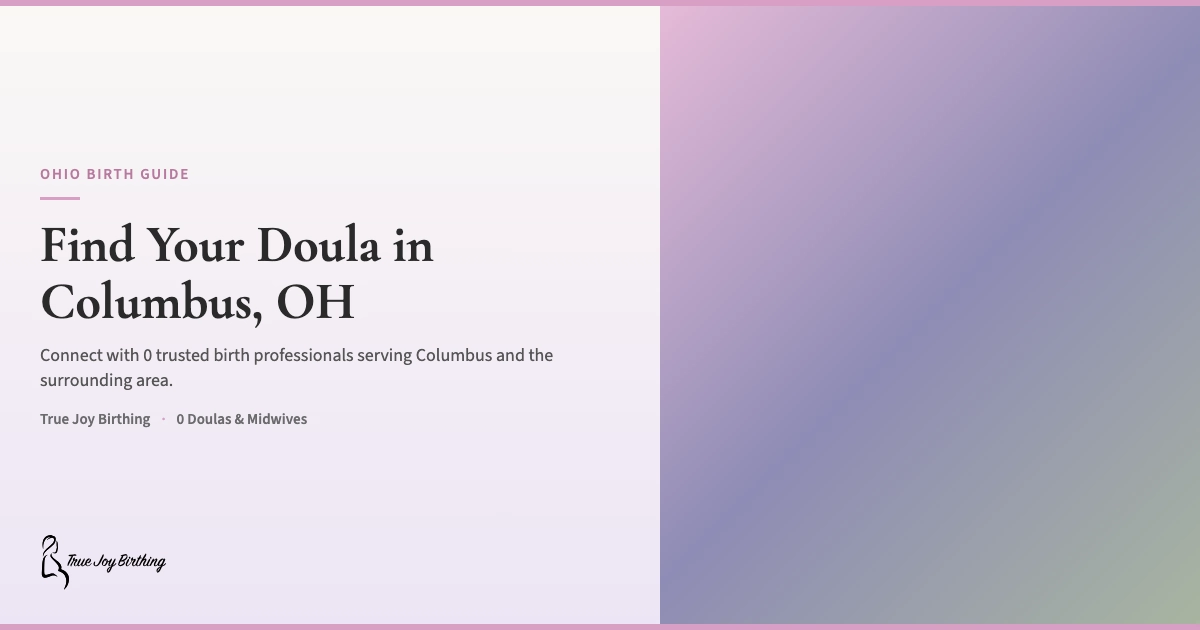
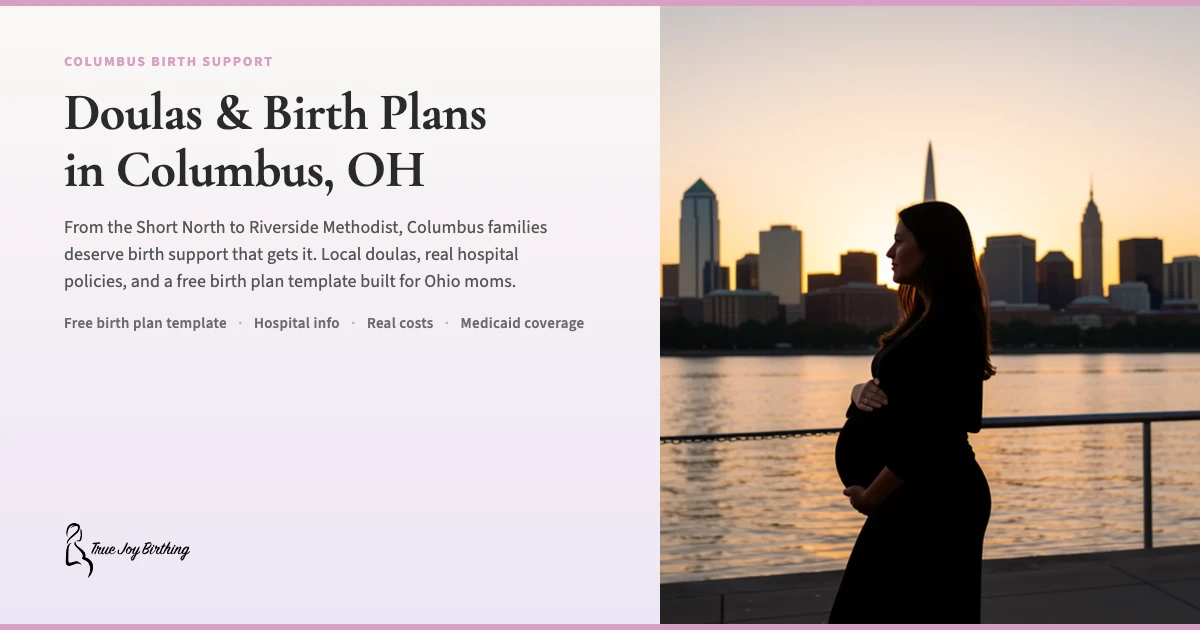
fix: columbus-oh OG image, support scene, hospital enrichment [preflight: pass]

diff --git a/src/data/cities.ts b/src/data/cities.ts
@@ -3103,6 +3103,8 @@ export const cities: Record<string, CityData> = {
     costHigh: 2000,
     shelbiServesHere: false,
     heroImage: "/images/columbus-oh-hero-v2.webp",
+    ogImage: "https://truejoybirthing.com/images/og-city-columbus-oh.webp",
+    supportSceneImage: "/images/columbus-oh-birth-doula-support.webp",
     localDoulas: [
       { name: "Caroline Pitts" , credential: "CD(DONA), LCCE" , practice: "Peaceful Doula Care" , url: "https://peacefuldoulacare.com/" , photo: "/images/provider-columbus-oh-peaceful-doula-care.webp", description: "Caroline Pitts is a DONA International certified birth doula and Lamaze Certified Childbirth Educator in Columbus, Ohio with over 7 years of experience and 150+ births attended. She offers personalized prenatal education, continuous labor support, and postpartum follow-up for families across Central Ohio. Serving families within 25 miles of Columbus, she is one of the city\u2019s most established independent doulas." , costRange: "$800-$2,300" , costRange_source: "doulamatch" , acceptingClients: true, services: ["Birth Doula" , "Postpartum Doula" , "Childbirth Education"], serviceArea: ["Columbus, OH" , "Bexley, OH" , "Upper Arlington, OH" , "Worthington, OH"] },
       { name: "CHOICE (Columbus Midwives)" , credential: "Trained & Certified Doulas" , practice: "CHOICE (Columbus Midwives)" , url: "https://www.choicemidwives.org/services/birth-doula/" , photo: "/images/provider-columbus-oh-birth-doula.webp", description: "CHOICE (Columbus Midwives) provides certified doula support for hospital births, birth center births, and home births throughout central Ohio. Their doulas are trained in evidence-based birth support and work alongside midwifery teams to ensure continuous labor support for Columbus families.", costRange: "$1,200-$2,500", costRange_source: "market-estimate", acceptingClients: true, services: ["Birth Doula" , "Postpartum Doula"], serviceArea: ["Columbus, OH"] },
@@ -3115,13 +3117,13 @@ export const cities: Record<string, CityData> = {
     culture: "Columbus is a sprawl of cool neighborhoods. from Clintonville to the Short North. but when you\u2019re pregnant, what matters is that most L&D action clusters around Riverside Methodist up on Olentangy River Rd and OSU\u2019s Wexner campus off 315. If you live out in Hilliard or Dublin, that midday drive up 315 is a breeze, but factor in rush-hour parking time at Riverside because that lot fills fast." ,
     heroLocalDetail: "Riverside Methodist\u2019s maternity entrance faces Olentangy River Road. the parking garage directly attached to the Women\u2019s Pavilion can have a line on weekday mornings, so plan to arrive at least 20 minutes before any scheduled appointment." ,
     hospitalDetails: [
-      { name: "OhioHealth Riverside Methodist Hospital" , thumbnail: "/images/columbus-oh-hospital-riverside-methodist.webp" , paragraph: "Riverside Methodist is Columbus\u2019s busiest maternity hospital, delivering over 8,000 babies a year. they\u2019ve got a verified Level III NICU on-site and a dedicated Women\u2019s Pavilion that makes the whole check-in process smoother. <a href=\"/birth-plan-template/\">Download your free birth plan template</a> to bring to your first Riverside appointment." },
-      { name: "The Ohio State University Wexner Medical Center" , thumbnail: "/images/columbus-oh-hospital-wexner-medical.webp" , paragraph: "Wexner\u2019s Maternity Center at OSU handles both routine and high-risk pregnancies with an academic OB team, and they\u2019ve got a verified Level III NICU on-site for babies who need specialized care right after delivery." },
-      { name: "Mount Carmel East Hospital" , thumbnail: "/images/columbus-oh-hospital-mount-carmel-east.webp" , paragraph: "Mount Carmel East on the east side of Columbus has a solid maternity program with labor, delivery, and recovery suites. great option if you live in Reynoldsburg, Pataskala, or further east and don\u2019t want to drive across town when contractions start." }
+      { name: "OhioHealth Riverside Methodist Hospital" , thumbnail: "/images/columbus-oh-hospital-riverside-methodist.webp" , url: "https://www.ohiohealth.com/services/womens-health/maternity", address: "3535 Olentangy River Rd, Columbus, OH 43214", doulaPolicy: "Doulas welcome", paragraph: "Riverside Methodist is Columbus\u2019s busiest maternity hospital, delivering over 8,000 babies a year with a 24/7 laborist program for round-the-clock OB coverage. The hospital has a verified Level III NICU on-site and a dedicated Women\u2019s Pavilion that streamlines check-in and triage. OhioHealth Riverside is Baby-Friendly designated, meaning staff follow the WHO/UNICEF Ten Steps to Successful Breastfeeding with robust lactation support including inpatient and outpatient consultants. Doulas and a certified support person are welcome during labor and delivery per OhioHealth policy. The hospital offers private LDRP suites, childbirth education classes, and a maternal-fetal medicine program for high-risk pregnancies. VBAC is offered following ACOG guidelines with individualized evaluation. <a href=\"/birth-plan-template/\">Download your free birth plan template</a> to bring to your first Riverside appointment." , nicuLevel: "III" , medicaid: "Yes \u2014 accepted" },
+      { name: "The Ohio State University Wexner Medical Center" , thumbnail: "/images/columbus-oh-hospital-wexner-medical.webp" , url: "https://wexnermedical.osu.edu/obstetrics-gynecology/pregnancy/maternity-center", address: "520 W 10th Ave, Columbus, OH 43210", doulaPolicy: "Doulas welcome", paragraph: "OSU\u2019s Maternity Center on floors 22\u201324 of University Hospital handles both routine and high-risk pregnancies with an academic OB team and maternal-fetal medicine specialists. The center has a verified Level III NICU on-site, with access to the only Level IV NICU in central Ohio at Nationwide Children\u2019s Hospital just across the street. Up to three support people and a doula may accompany you during labor and delivery. The newly renovated University Hospital features all-private rooms including maternal special care rooms and a dedicated neonatal intensive care unit. OSU offers comprehensive lactation support, childbirth education, and specialized programs for high-risk pregnancies including multiples and maternal cardiac conditions. VBAC is available following ACOG guidelines with case-by-case evaluation. <a href=\"/birth-plan-template/\">Start your birth plan free</a> to prepare for your OSU birth experience." , nicuLevel: "III" , medicaid: "Yes \u2014 accepted" },
+      { name: "Mount Carmel East Hospital" , thumbnail: "/images/columbus-oh-hospital-mount-carmel-east.webp" , url: "https://www.mountcarmelhealth.com/services/maternity", address: "6001 East Broad Street, Columbus, OH 43213", doulaPolicy: "Doulas welcome", paragraph: "Mount Carmel East on the east side of Columbus has a Level III NICU staffed by neonatologists with 24-hour OB, anesthesia, and neonatal coverage. The hospital is Baby-Friendly designated since January 2022 and also holds Birthing-Friendly designation, demonstrating commitment to maternal-infant health best practices. Mount Carmel created Columbus and central Ohio\u2019s first hospital-based doula program, and private doulas are also welcome during labor. The maternity unit features private LDRP suites and offers comprehensive childbirth education, lactation consulting, and a midwifery program for families seeking midwife-attended births. VBAC is offered following ACOG guidelines. Mount Carmel accepts Ohio Medicaid, making it a critical access point for families across the economic spectrum. Great option if you live in Reynoldsburg, Pataskala, or further east and don\u2019t want to drive across town when contractions start. <a href=\"/birth-plan-template/\">Start your birth plan free</a> for your Mount Carmel birth." , nicuLevel: "III" , medicaid: "Yes \u2014 accepted" }
     ],
     birthCenterDetails: [],
     // Birth center search: NPI taxonomy 261QB0400X, Google Maps, and social media checked for Columbus OH. No verified freestanding birth center found.
-    medicaidNote: "Ohio Medicaid began covering doula services in 2024. the state added doulas as an eligible provider type, so if you\u2019re on Ohio Medicaid you can find a certified doula who accepts your plan and get prenatal, labor, and postpartum visits covered." ,
+    medicaidNote: "Yes \u2014 Ohio Medicaid began covering doula services in 2024. the state added doulas as an eligible provider type, so if you\u2019re on Ohio Medicaid you can find a certified doula who accepts your plan and get prenatal, labor, and postpartum visits covered." ,
     insuranceNote: "In Columbus, you\u2019ll find doulas who take HSA/FSA cards directly, and several collectives like Central Ohio Doulas offer sliding-scale packages. always ask about payment plan options since costs vary widely between individual doulas and groups." ,
     faqs: [
       { q: "How much does a doula cost in Columbus?" , a: "Columbus doula services range from about $900 to $2,000 for a full birth package, with some experienced doulas charging above that. Postpartum-only support typically runs $30\u2013$50 per hour." },

diff --git a/scripts/og-city-columbus-oh-composition.html b/scripts/og-city-columbus-oh-composition.html
@@ -1,0 +1,147 @@
+<!DOCTYPE html>
+<html>
+<head>
+<meta charset="utf-8">
+<link rel="preconnect" href="https://fonts.googleapis.com">
+<link rel="preconnect" href="https://fonts.gstatic.com" crossorigin>
+<link href="https://fonts.googleapis.com/css2?family=Cormorant+Garamond:wght@600;700&family=Source+Sans+3:wght@400;600;700&display=swap" rel="stylesheet">
+<style>
+  * { margin: 0; padding: 0; box-sizing: border-box; }
+  html, body {
+    width: 1200px;
+    height: 630px;
+    background: #FAF8F5;
+    overflow: hidden;
+  }
+  .og-card {
+    display: flex;
+    flex-direction: row;
+    width: 1200px;
+    height: 630px;
+  }
+  .left-column {
+    width: 660px;
+    display: flex;
+    flex-direction: column;
+    justify-content: center;
+    padding: 52px 64px;
+    background: linear-gradient(180deg, #FAF8F5 0%, #EDE5F5 100%);
+    position: relative;
+  }
+  .left-column::before {
+    content: '';
+    position: absolute;
+    top: 0;
+    left: 0;
+    right: 0;
+    height: 6px;
+    background: #D8A0C4;
+  }
+  .left-column::after {
+    content: '';
+    position: absolute;
+    bottom: 0;
+    left: 0;
+    right: 0;
+    height: 6px;
+    background: #D8A0C4;
+  }
+  .right-column {
+    width: 540px;
+    position: relative;
+    overflow: hidden;
+  }
+  .right-column img {
+    width: 100%;
+    height: 100%;
+    object-fit: cover;
+    object-position: center;
+  }
+  .right-column::before {
+    content: '';
+    position: absolute;
+    top: 0;
+    left: 0;
+    right: 0;
+    height: 6px;
+    background: #D8A0C4;
+    z-index: 2;
+  }
+  .right-column::after {
+    content: '';
+    position: absolute;
+    bottom: 0;
+    left: 0;
+    right: 0;
+    height: 6px;
+    background: #D8A0C4;
+    z-index: 2;
+  }
+  .eyebrow {
+    font-family: 'Source Sans 3', system-ui, sans-serif;
+    font-weight: 700;
+    font-size: 14px;
+    color: #D8A0C4;
+    letter-spacing: 0.12em;
+    text-transform: uppercase;
+    margin-bottom: 12px;
+  }
+  .headline {
+    font-family: 'Cormorant Garamond', serif;
+    font-weight: 700;
+    font-size: 52px;
+    color: #2A2A2A;
+    letter-spacing: -0.01em;
+    line-height: 1.1;
+    margin-bottom: 16px;
+  }
+  .summary {
+    font-family: 'Source Sans 3', system-ui, sans-serif;
+    font-weight: 400;
+    font-size: 18px;
+    color: #555555;
+    letter-spacing: 0.005em;
+    line-height: 1.5;
+    margin-bottom: 18px;
+    max-width: 520px;
+  }
+  .subhead {
+    font-family: 'Source Sans 3', system-ui, sans-serif;
+    font-weight: 600;
+    font-size: 15px;
+    color: #6A6B6C;
+    letter-spacing: 0.02em;
+  }
+  .subhead span {
+    margin: 0 8px;
+    color: #D8A0C4;
+  }
+  .logo-area {
+    margin-top: auto;
+    padding-top: 20px;
+    display: flex;
+    align-items: center;
+  }
+  .logo-area img {
+    height: 56px;
+    width: auto;
+  }
+</style>
+</head>
+<body>
+<div class="og-card">
+  <div class="left-column">
+    <div class="eyebrow">COLUMBUS BIRTH SUPPORT</div>
+    <div class="headline">Doulas &amp; Birth Plans<br>in Columbus, OH</div>
+    <div class="summary">From the Short North to Riverside Methodist, Columbus families deserve birth support that gets it. Local doulas, real hospital policies, and a free birth plan template built for Ohio moms.</div>
+    <div class="subhead">Free birth plan template <span>&middot;</span> Hospital info <span>&middot;</span> Real costs <span>&middot;</span> Medicaid coverage</div>
+    <div class="logo-area">
+      <img src="https://truejoybirthing.com/images/logo-mono.svg" alt="True Joy Birthing" />
+    </div>
+  </div>
+  <div class="right-column">
+    <img src="file:///Users/socializerender/Projects/truejoybirthing-website/public/images/columbus-oh-hero-v2.webp" alt="Columbus birth doula" />
+  </div>
+</div>
+</body>
+</html>
